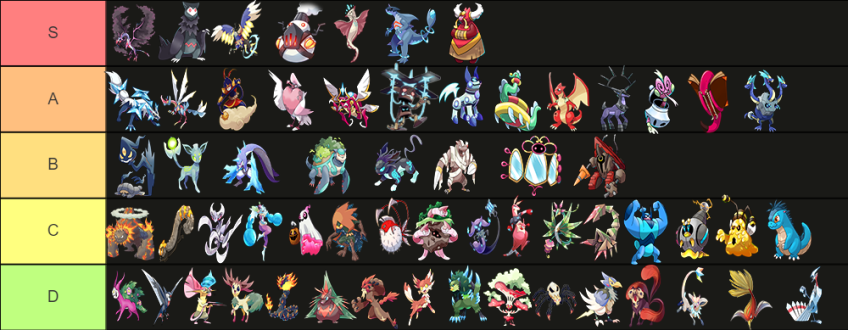
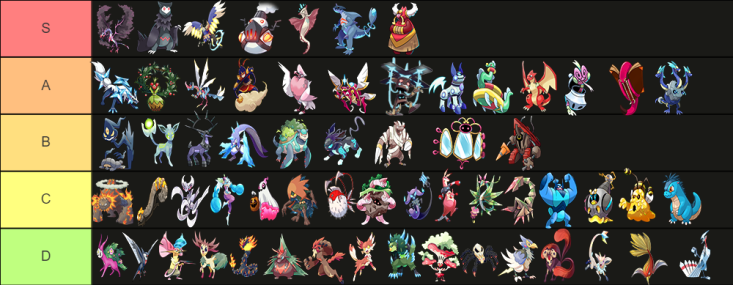
added holleader to chart

diff --git a/Index.html b/Index.html
@@ -7,7 +7,7 @@
     <title>Counter Dex</title>
 
     <link href="https://cdn.jsdelivr.net/npm/bootstrap@5.2.0-beta1/dist/css/bootstrap.min.css" rel="stylesheet" integrity="sha384-0evHe/X+R7YkIZDRvuzKMRqM+OrBnVFBL6DOitfPri4tjfHxaWutUpFmBp4vmVor" crossorigin="anonymous">
-    <link rel="stylesheet" href="sass.css?v=1.4">
+    <link rel="stylesheet" href="sass.css?v=1.5">
     <script src="https://code.jquery.com/jquery-3.6.0.min.js"></script>
     <script src="https://ajax.googleapis.com/ajax/libs/jquery/3.6.1/jquery.min.js"></script>
     
